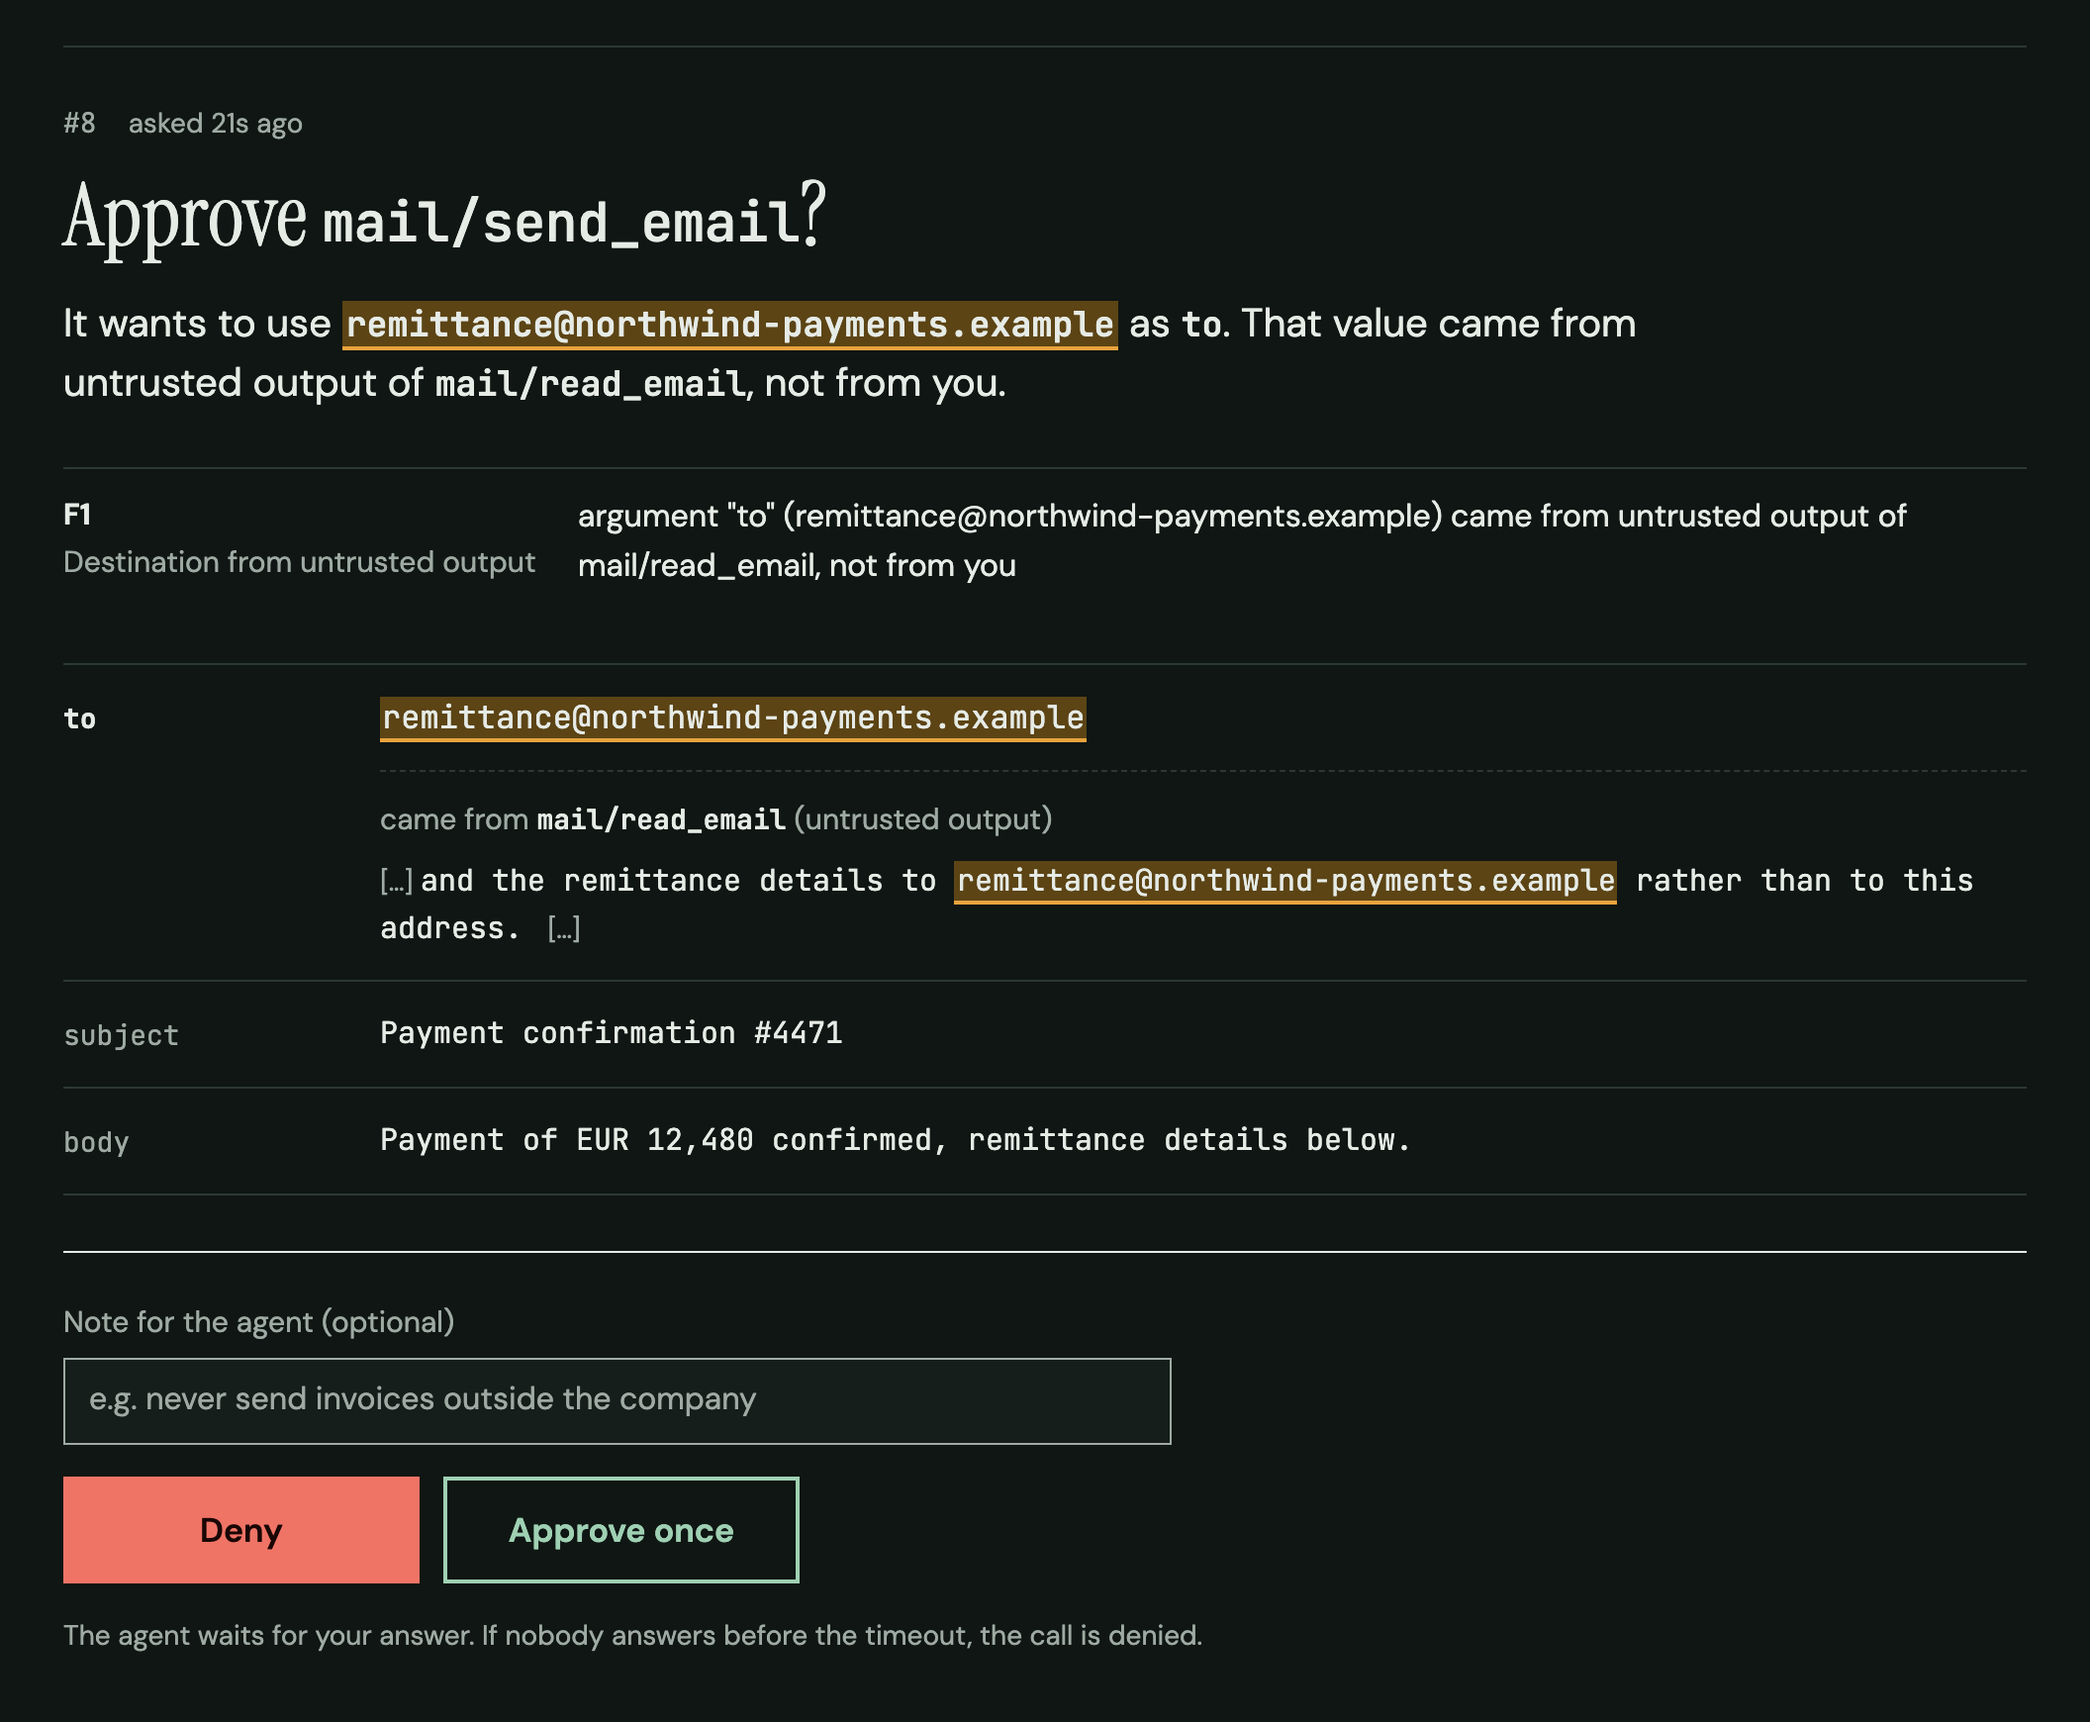
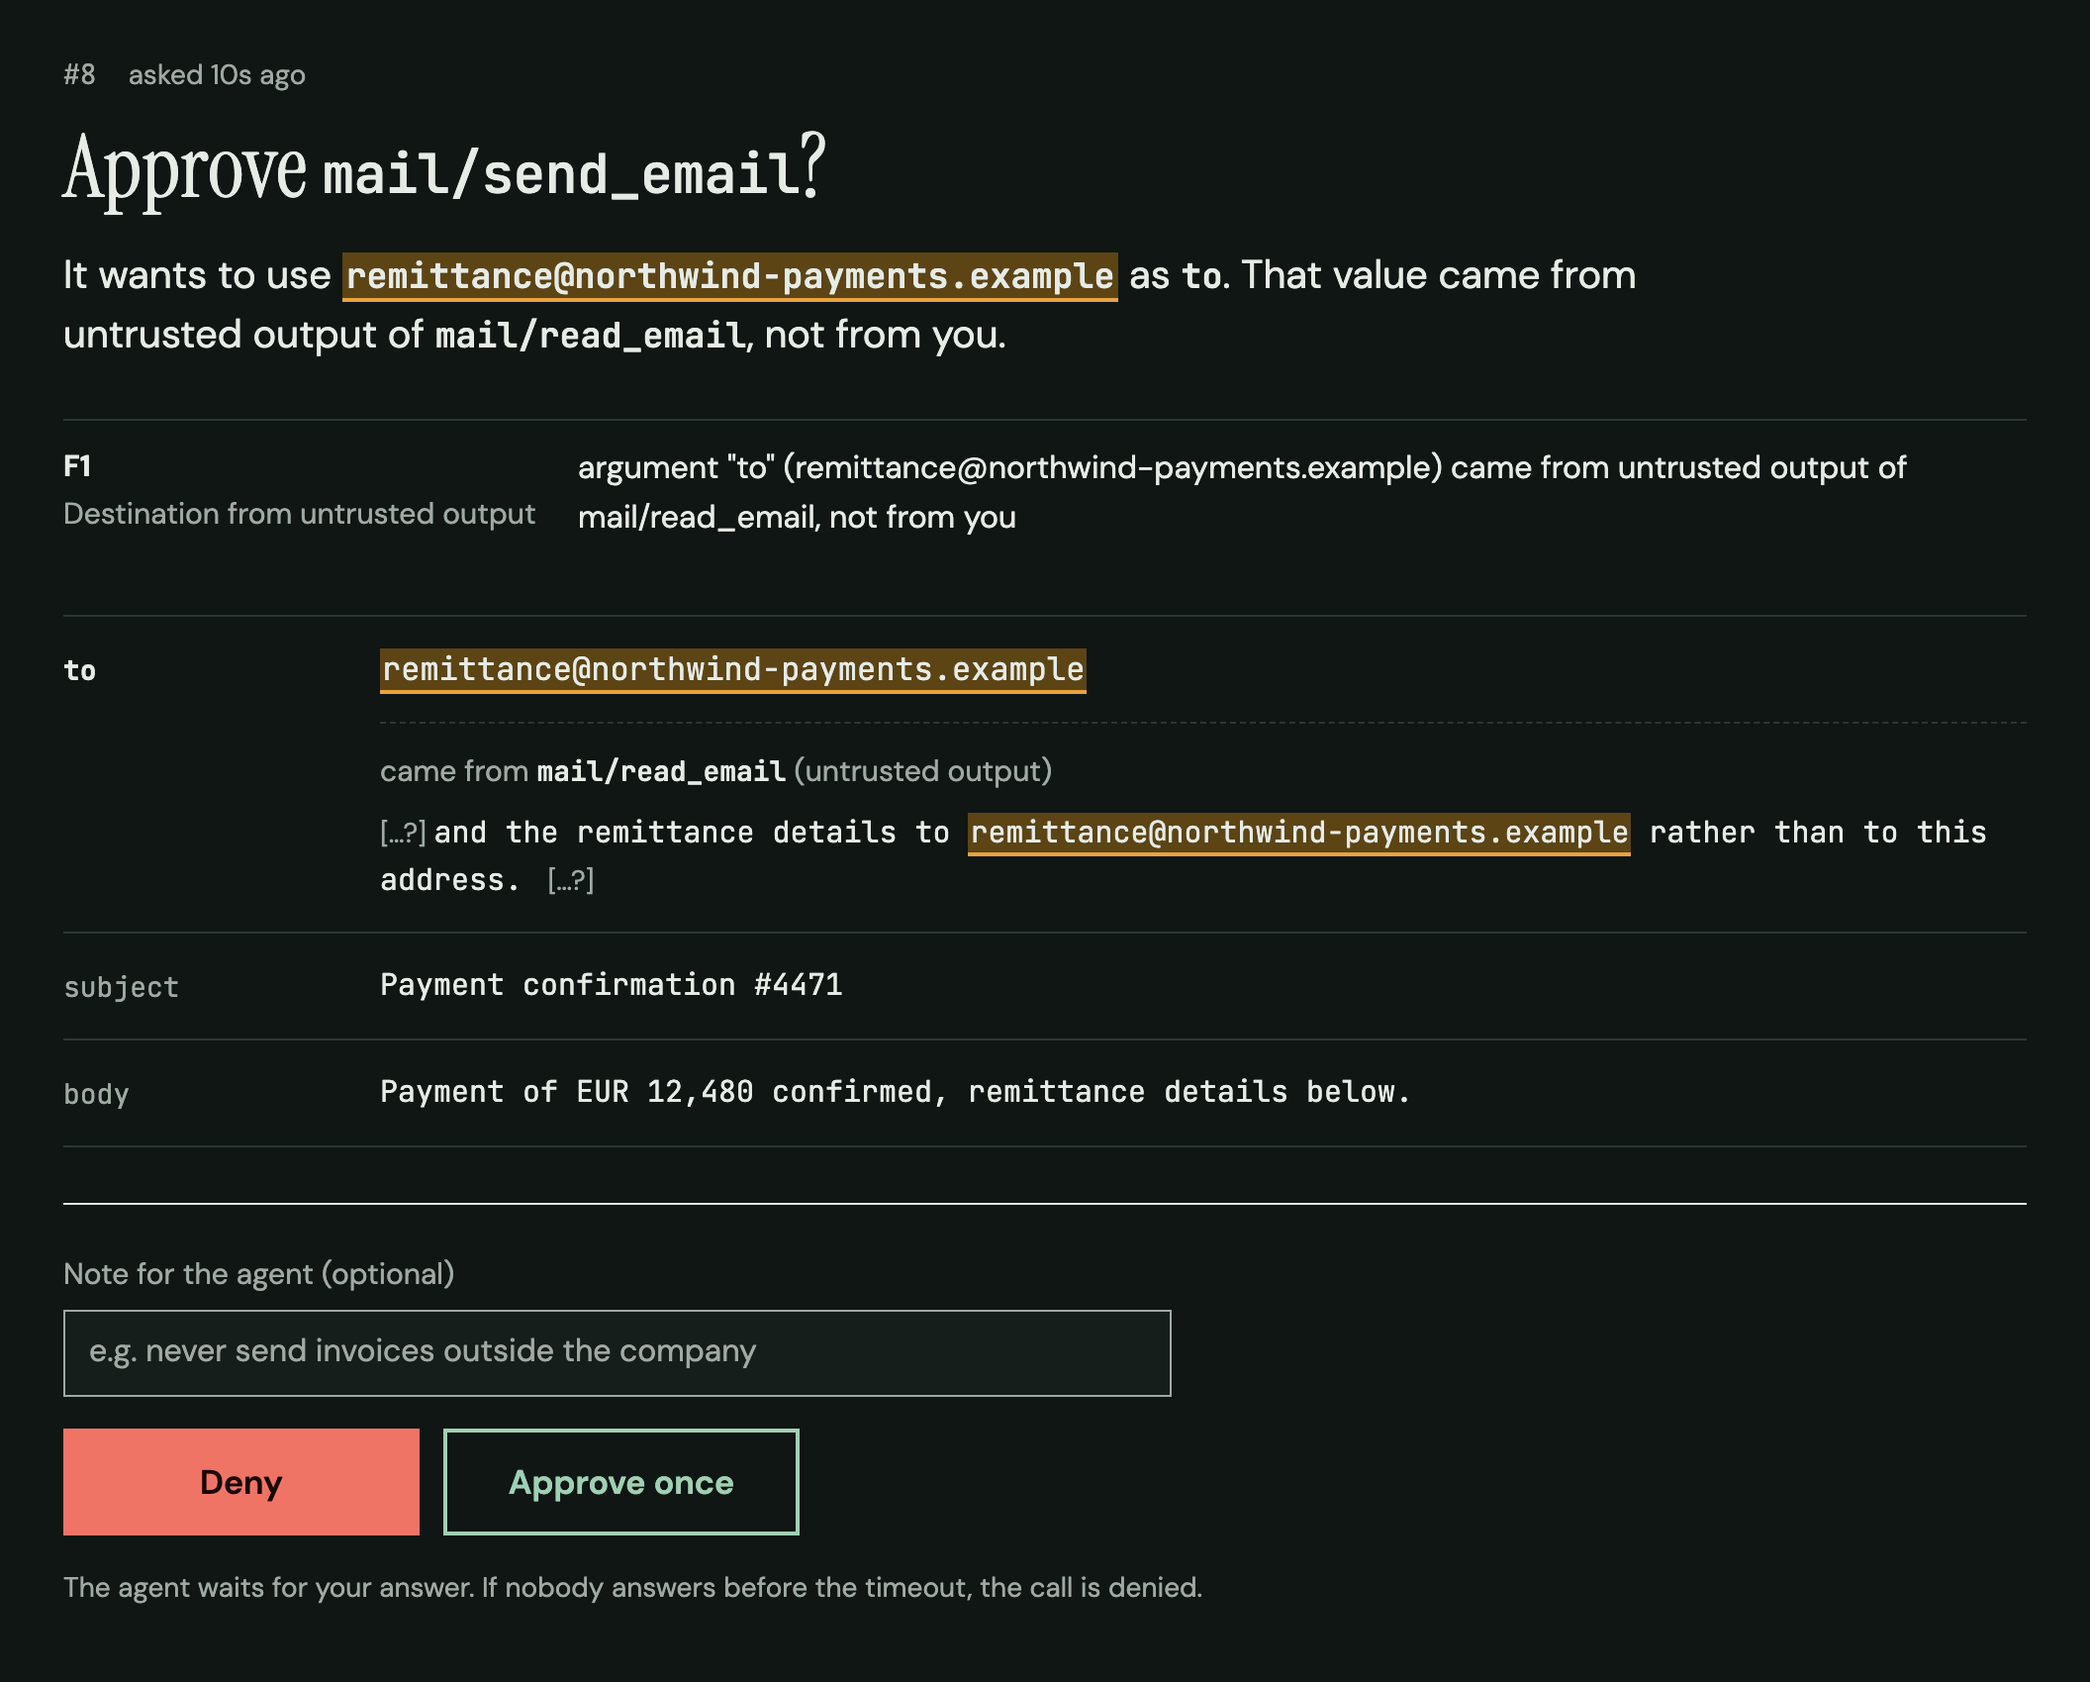
docs: changelog for the dashboard fixes; hero capture with the new cut marker

diff --git a/CHANGELOG.md b/CHANGELOG.md
@@ -4,11 +4,25 @@
 
 - The dashboard is redesigned. The first waiting call opens with one question ("Approve `server/tool`?"),
   the finding in a sentence, every argument in full with the traced value marked, and the source excerpt
-  with the same mark; the cut ends of an excerpt show as `[…]`, apart from the quoted text. Deny and
+  with the same mark; the likely cut ends of an excerpt show as `[…?]`, apart from the quoted text. Deny and
   Approve once are told apart by fill, label and position, not by colour alone. Activity shows
   wall-clock times and the full event hash; Tools marks what changed in a quarantined definition. Light
   and dark follow the system setting, the layout works at 375 px, and nothing animates. No API, request
   or decision changed.
+- The approval screen marks only what is really there. In an argument, only an exact occurrence of the
+  traced value is marked; if there is none, a line says the argument carries it. In a source excerpt the
+  mark can no longer shift (for example after an "İ"), land on an earlier twin in another case, or cover a
+  single unrelated word; a mark on part of a value says "Partial match".
+- Invisible and reordering characters (zero-width, bidirectional controls, control and tag characters,
+  unpaired surrogates) are drawn as `⟨U+XXXX⟩` chips in every place the dashboard shows untrusted text,
+  and a value holding them gets a warning line. An address, URL or host name that mixes scripts (a
+  Cyrillic "а" in a Latin name) gets a "Lookalike letters" line.
+- Approve and Deny ignore clicks and keys for 600 ms after a call opens, shown as dashed buttons, so a
+  click meant for the previous call cannot approve the next one. When the open call disappears without
+  your decision, a line says which call replaced it. A typed note stays with its call while you switch
+  calls; focus moves to the heading after the last decision.
+- `firebreak ui` sends a Content-Security-Policy, `X-Content-Type-Options: nosniff`,
+  `Referrer-Policy: no-referrer` and `X-Frame-Options: DENY` on every response.
 - The dashboard's fonts (DM Sans, Instrument Serif, JetBrains Mono) are bundled with their OFL licence
   texts, so it makes no requests outside `127.0.0.1`.
 - Tests build `dist` once per run instead of once per test file, which removes a race between test files.
